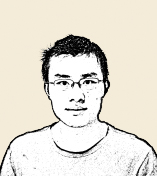
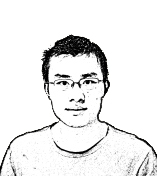
bgcolor change

diff --git a/css/global.css b/css/global.css
@@ -1,4 +1,4 @@
-body { margin: 0; padding: 0; background: #f2ecde; }
+body { margin: 0; padding: 0; background: /*#f2ecde*/ #ffffff; }
 .clear { clear: both; }
 #main {	width: 80%; margin: 0 auto 0 auto; min-height: 550px; }
 #header { height: 200px; margin: 0 auto auto 0px; }
